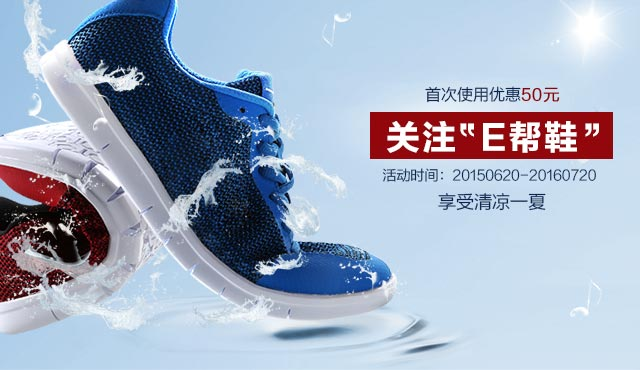
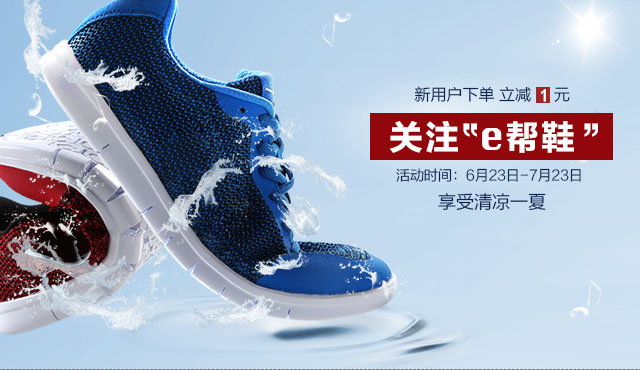
update

diff --git a/index.html b/index.html
@@ -11,7 +11,7 @@
 <div class="swipe" id="slider" style="visibility:visible;">
 <div id="banners" class="swipe-wrap">
 <a href="banner1.html"><img width=640 height=370 src="images/banner1.webp" alt="1" onerror="this.src='images/banner1.jpg'"></a>
-<a href="banner2.html"><img width=640 height=370 src="images/banner2.webp" alt="2" onerror="this.src='images/banner2.jpg'"></a>
+<a href="banner2.html"><img width=640 height=370 src="images/banner2.jpg" alt="2"></a>
 </div>
 <ul id="position"><li></li><li></li></ul>
 </div>
@@ -31,7 +31,7 @@
 <nav>
[3 lines of base64/hex data omitted]
+<a target=_self href=my.html><img width=24 height=24 src="images/nav-3.png"></a>
 </nav>
 </footer>
 </div>

diff --git a/my.html b/my.html
@@ -58,7 +58,10 @@
            <span style="display:none;">0</span>
            </a>
            <a target=_self href=my.html  onclick="return false;" ontouchstart="return false;">
[1 lines of base64/hex data omitted]
+             <div class="img" >
+               <img width=24 height=24 src="images/nav-3_1.png"/>
+             </div>
+             <span class="footer-nav-title">我的</span>
            </a>
     </nav>
 </footer>

diff --git a/banner2.html b/banner2.html
@@ -12,18 +12,17 @@
 <meta http-equiv="content-type" content="text/html; charset=UTF-8">
 <meta name=description content=e帮鞋>
 <meta name=keywords content=e帮鞋>
-<title>e帮鞋-说明</title>
+<title>e帮鞋-活动</title>
 <link rel=stylesheet href=css/style.css>
-<style>.img-con{width:6.4rem;height:100%;}#i1{width:6.4rem;height:3.7rem;}#i2{width:6.4rem;height:4.8rem;}</style>
+<style>.img-con{width:6.4rem;height:100%;}.img-con img{width:6.4rem;height:13.42rem;}</style>
 </head>
 <body onload="loaded()">
 <div class="wrap">
-<header id="header" class="bg" style="position:relative;"><div class="city"><a target="_self" href="index.html"><h6>< 返回</h6></a></div>说明</header>
+<header id="header" class="bg" style="position:relative;"><div class="city"><a target="_self" href="index.html"><h6>< 返回</h6></a></div>活动</header>
 <div id="wrapper" style="height:100%;">
 <div id="scroller">
   <div class="img-con">
-  	<img id="i1" src="images/banner2.webp" width="320" height="185" onerror="this.src='images/banner2.jpg'">
-  	<img id="i2" src="images/banner2_02.webp" width="320" height="240" onerror="this.src='images/banner2-2.jpg'">
+  	<img src="images/banner2_.jpg" width="320" height="672">
   </div>
 </div>
 </div>
@@ -31,9 +30,4 @@
 <script src="js/iscroll.js"></script>
 <script>
 var myScroll;
-function loaded () {
-	myScroll = new IScroll('#wrapper',{bounceEasing:'elastic',bounceTime:1200,fadeScrollbars:true,scrollbars:true});
-}
-</script>
-</body>
-</html>
+function loaded(){myScroll = new IScroll('#wrapper',{bounceEasing:'elastic',bounceTime:1200,fadeScrollbars:true,scrollbars:true});}</script></body></html>

diff --git a/banner1.html b/banner1.html
@@ -14,7 +14,7 @@
 <meta name=keywords content=e帮鞋>
 <title>e帮鞋-说明</title>
 <link rel=stylesheet href=css/style.css>
-<style>.img-con{width:6.4rem;height:100%;}.img-con img{width:6.4rem;height:3.7rem;}</style>
+<style>.img-con{width:6.4rem;height:100%;}.img-con img{width:6.4rem;height:17.92rem;}</style>
 </head>
 <body onload="loaded()">
 <div class="wrap">
@@ -22,10 +22,7 @@
 <div id="wrapper" style="height:100%;">
 <div id="scroller">
   <div class="img-con">
-  	<img src="images/banner1_01.webp" width="320" height="242" onerror="this.src='images/banner1_01.jpg'">
-  	<img src="images/banner1_02.webp" width="320" height="242" onerror="this.src='images/banner1_02.jpg'">
-  	<img src="images/banner1_03.webp" width="320" height="242" onerror="this.src='images/banner1_03.jpg'">
-  	<img src="images/banner1_04.webp" width="320" height="242" onerror="this.src='images/banner1_04.jpg'">
+  	<img src="images/banner1_.jpg" width="320" height="896" onerror="this.src='images/banner1_.jpg'">
   </div>
 </div>
 </div>
@@ -33,9 +30,4 @@
 <script src="js/iscroll.js"></script>
 <script>
 var myScroll;
-function loaded () {
-	myScroll = new IScroll('#wrapper',{bounceEasing:'elastic',bounceTime:1200,fadeScrollbars:true,scrollbars:true});
-}
-</script>
-</body>
-</html>
+function loaded(){myScroll = new IScroll('#wrapper',{bounceEasing:'elastic',bounceTime:1200,fadeScrollbars:true,scrollbars:true});}</script></body></html>

diff --git a/css/my.css b/css/my.css
@@ -2,7 +2,15 @@
 body{font-size:14px;background:#F2F2F2;color:#555;font-family:"Helvetica","微软雅黑","宋体";}
 footer {position:absolute;z-index:2;bottom:0;width:100%;height:45px;background:#444;padding:0;min-width:320px;max-width:640px;}
 footer nav{height:100%;}
-nav a{float:left;font-size:0.6rem;width:33%;text-align:center;line-height:38px;font-family:none;}
+nav a{float:left;font-size:0.6rem;
+	width:33%;text-align:center;
+	/*line-height:45px;*/
+	font-family:none;
+	height:100%;
+	display:table;
+	vertical-align:middle;
+}
+
 .tips{background:red;display:inline-block !important;width:19px;height:19px;text-align:center;line-height:19px;border-radius:50%;color:#fff;font-size:12px;font-family:"Helvetica","微软雅黑","宋体";position:absolute;top:4px;right:20%;}
 a[href="order.html"]{position:relative;}
 .city{position:absolute;left:10px;cursor:pointer;}
@@ -19,3 +27,9 @@ header a{color:#fff;}.f_l{float:left;}.f_r{float:right;}
 .item-list dt.to{background:url(../images/kefu.svg) 10px center no-repeat;background-size:35px 35px;}
 .H-submit{margin:.2rem;height:.88rem;border-radius:.08rem;background-clip:padding-box;}
 .reserBtn{width:100%;height:100%;display:block;color:#fff;-webkit-box-pack:center;border:none;border-radius:.08rem;}
+.footer-nav-title{
+	display:table-row;
+}
+.img{
+	display:table-row;
+}
